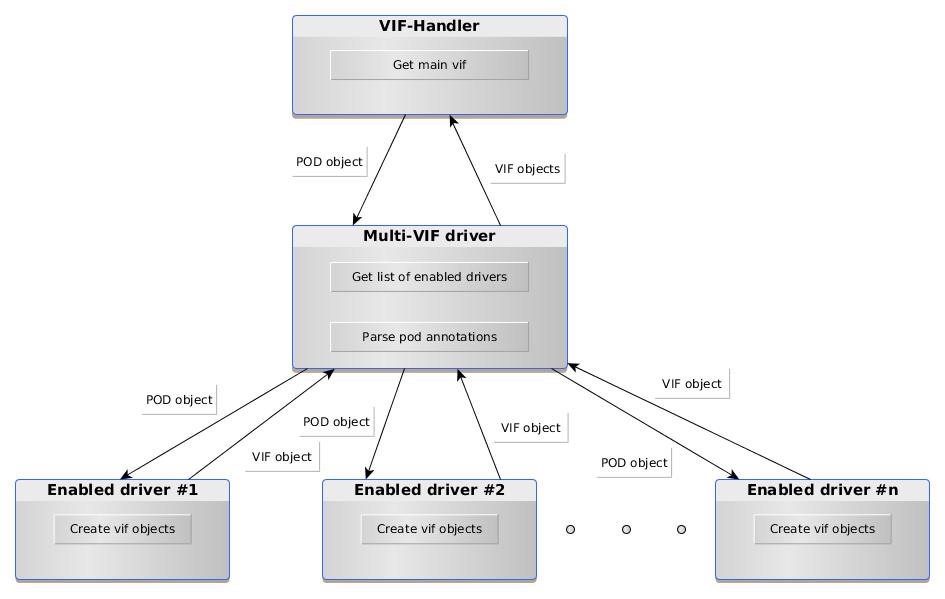
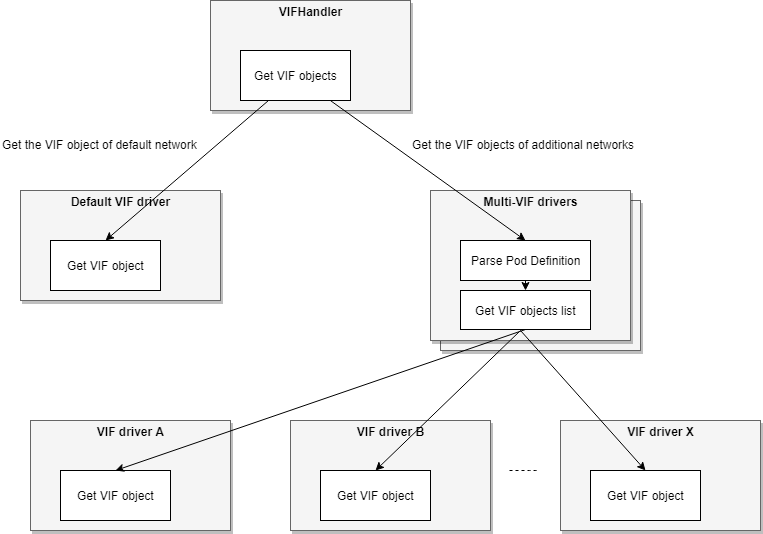
Implement multi-vif driver
This patch implements the multi-vif of VIF-Handler And Vif
Drivers Design.

This patch creates a new driver type MultiVIFDriver. It will
be the base class of real drivers like sriov,
additional_subnet and npwg_multiple_interfaces. Each of the
derived driver should implement the parsing of the additional
interfaces definition in K8S pods, and call VIF driver to
either create or acquire the Neutron port and its VIF object.

A list of enabled drivers can be returned by its class method.
So that the VIFHandler can invoke each driver one by one to
get the whole list of interfaces for one pod.

Partially Implements: blueprint multi-vif-pods

diff --git a/kuryr_kubernetes/tests/unit/controller/handlers/test_vif.py b/kuryr_kubernetes/tests/unit/controller/handlers/test_vif.py
@@ -34,6 +34,8 @@ class TestVIFHandler(test_base.TestCase):
         self._vif.active = True
         self._vif_serialized = mock.sentinel.vif_serialized
         self._vifs = {k_const.DEFAULT_IFNAME: self._vif}
+        self._multi_vif_drv = mock.MagicMock(spec=drivers.MultiVIFDriver)
+        self._additioan_vifs = []
 
         self._pod_version = mock.sentinel.pod_version
         self._pod_link = mock.sentinel.pod_link
@@ -52,6 +54,7 @@ class TestVIFHandler(test_base.TestCase):
         self._handler._drv_vif = mock.Mock(spec=drivers.PodVIFDriver)
         self._handler._drv_vif_pool = mock.MagicMock(
             spec=drivers.VIFPoolDriver)
+        self._handler._drv_multi_vif = [self._multi_vif_drv]
 
         self._get_project = self._handler._drv_project.get_project
         self._get_subnets = self._handler._drv_subnets.get_subnets
@@ -64,8 +67,11 @@ class TestVIFHandler(test_base.TestCase):
         self._set_vifs = self._handler._set_vifs
         self._is_host_network = self._handler._is_host_network
         self._is_pending_node = self._handler._is_pending_node
+        self._request_additional_vifs = \
+            self._multi_vif_drv.request_additional_vifs
 
         self._request_vif.return_value = self._vif
+        self._request_additional_vifs.return_value = self._additioan_vifs
         self._get_vifs.return_value = self._vifs
         self._is_host_network.return_value = False
         self._is_pending_node.return_value = True
@@ -78,6 +84,7 @@ class TestVIFHandler(test_base.TestCase):
         self._handler._drv_for_vif = h_vif.VIFHandler._drv_for_vif.__get__(
             self._handler)
 
+    @mock.patch.object(drivers.MultiVIFDriver, 'get_enabled_drivers')
     @mock.patch.object(drivers.VIFPoolDriver, 'set_vif_driver')
     @mock.patch.object(drivers.VIFPoolDriver, 'get_instance')
     @mock.patch.object(drivers.PodVIFDriver, 'get_instance')
@@ -86,17 +93,19 @@ class TestVIFHandler(test_base.TestCase):
     @mock.patch.object(drivers.PodProjectDriver, 'get_instance')
     def test_init(self, m_get_project_driver, m_get_subnets_driver,
                   m_get_sg_driver, m_get_vif_driver, m_get_vif_pool_driver,
-                  m_set_vifs_driver):
+                  m_set_vifs_driver, m_get_multi_vif_drivers):
         project_driver = mock.sentinel.project_driver
         subnets_driver = mock.sentinel.subnets_driver
         sg_driver = mock.sentinel.sg_driver
         vif_driver = mock.sentinel.vif_driver
         vif_pool_driver = mock.Mock(spec=drivers.VIFPoolDriver)
+        multi_vif_drivers = [mock.MagicMock(spec=drivers.MultiVIFDriver)]
         m_get_project_driver.return_value = project_driver
         m_get_subnets_driver.return_value = subnets_driver
         m_get_sg_driver.return_value = sg_driver
         m_get_vif_driver.return_value = vif_driver
         m_get_vif_pool_driver.return_value = vif_pool_driver
+        m_get_multi_vif_drivers.return_value = multi_vif_drivers
 
         handler = h_vif.VIFHandler()
 
@@ -104,6 +113,7 @@ class TestVIFHandler(test_base.TestCase):
         self.assertEqual(subnets_driver, handler._drv_subnets)
         self.assertEqual(sg_driver, handler._drv_sg)
         self.assertEqual(vif_pool_driver, handler._drv_vif_pool)
+        self.assertEqual(multi_vif_drivers, handler._drv_multi_vif)
 
     def test_is_host_network(self):
         self._pod['spec']['hostNetwork'] = True
@@ -137,6 +147,7 @@ class TestVIFHandler(test_base.TestCase):
 
         self._get_vifs.assert_called_once_with(self._pod)
         self._request_vif.assert_not_called()
+        self._request_additional_vifs.assert_not_called()
         self._activate_vif.assert_not_called()
         self._set_vifs.assert_not_called()
 
@@ -147,6 +158,7 @@ class TestVIFHandler(test_base.TestCase):
 
         self._get_vifs.assert_not_called()
         self._request_vif.assert_not_called()
+        self._request_additional_vifs.assert_not_called()
         self._activate_vif.assert_not_called()
         self._set_vifs.assert_not_called()
 
@@ -157,6 +169,7 @@ class TestVIFHandler(test_base.TestCase):
 
         self._get_vifs.assert_not_called()
         self._request_vif.assert_not_called()
+        self._request_additional_vifs.assert_not_called()
         self._activate_vif.assert_not_called()
         self._set_vifs.assert_not_called()
 
@@ -169,6 +182,7 @@ class TestVIFHandler(test_base.TestCase):
         self._activate_vif.assert_called_once_with(self._pod, self._vif)
         self._set_vifs.assert_called_once_with(self._pod, self._vifs)
         self._request_vif.assert_not_called()
+        self._request_additional_vifs.assert_not_called()
 
     def test_on_present_create(self):
         self._get_vifs.return_value = {}
@@ -178,7 +192,26 @@ class TestVIFHandler(test_base.TestCase):
         self._get_vifs.assert_called_once_with(self._pod)
         self._request_vif.assert_called_once_with(
             self._pod, self._project_id, self._subnets, self._security_groups)
+        self._request_additional_vifs.assert_called_once_with(
+            self._pod, self._project_id, self._security_groups)
         self._set_vifs.assert_called_once_with(self._pod, self._vifs)
+        self._activate_vif.assert_not_called()
+
+    def test_on_present_create_with_additional_vifs(self):
+        self._get_vifs.return_value = {}
+        self._request_additional_vifs.return_value = [mock.Mock()]
+        vifs = self._vifs.copy()
+        vifs.update({k_const.ADDITIONAL_IFNAME_PREFIX+'1':
+                    self._request_additional_vifs.return_value[0]})
+
+        h_vif.VIFHandler.on_present(self._handler, self._pod)
+
+        self._get_vifs.assert_called_once_with(self._pod)
+        self._request_vif.assert_called_once_with(
+            self._pod, self._project_id, self._subnets, self._security_groups)
+        self._request_additional_vifs.assert_called_once_with(
+            self._pod, self._project_id, self._security_groups)
+        self._set_vifs.assert_called_once_with(self._pod, vifs)
         self._activate_vif.assert_not_called()
 
     def test_on_present_rollback(self):
@@ -190,6 +223,8 @@ class TestVIFHandler(test_base.TestCase):
         self._get_vifs.assert_called_once_with(self._pod)
         self._request_vif.assert_called_once_with(
             self._pod, self._project_id, self._subnets, self._security_groups)
+        self._request_additional_vifs.assert_called_once_with(
+            self._pod, self._project_id, self._security_groups)
         self._set_vifs.assert_called_once_with(self._pod, self._vifs)
         self._release_vif.assert_called_once_with(self._pod, self._vif,
                                                   self._project_id,
@@ -203,6 +238,22 @@ class TestVIFHandler(test_base.TestCase):
         self._release_vif.assert_called_once_with(self._pod, self._vif,
                                                   self._project_id,
                                                   self._security_groups)
+
+    def test_on_deleted_with_additional_vifs(self):
+        self._additioan_vifs = [mock.Mock()]
+        self._get_vifs.return_value = self._vifs.copy()
+        self._get_vifs.return_value.update(
+            {k_const.ADDITIONAL_IFNAME_PREFIX+'1': self._additioan_vifs[0]})
+
+        h_vif.VIFHandler.on_deleted(self._handler, self._pod)
+
+        self._get_vifs.assert_called_once_with(self._pod)
+        self._release_vif.assert_any_call(self._pod, self._vif,
+                                          self._project_id,
+                                          self._security_groups)
+        self._release_vif.assert_any_call(self._pod, self._additioan_vifs[0],
+                                          self._project_id,
+                                          self._security_groups)
 
     def test_on_deleted_host_network(self):
         self._is_host_network.return_value = True

diff --git a/kuryr_kubernetes/controller/drivers/base.py b/kuryr_kubernetes/controller/drivers/base.py
@@ -23,6 +23,7 @@ from kuryr_kubernetes import config
 
 _DRIVER_NAMESPACE_BASE = 'kuryr_kubernetes.controller.drivers'
 _DRIVER_MANAGERS = {}
+_MULTI_VIF_DRIVERS = []
 
 
 class DriverBase(object):
@@ -347,6 +348,42 @@ class PodVIFDriver(DriverBase):
 
 
 @six.add_metaclass(abc.ABCMeta)
+class MultiVIFDriver(DriverBase):
+    """Manages additional ports of Kubernetes Pods."""
+
+    ALIAS = 'multi_vif'
+
+    @abc.abstractmethod
+    def request_additional_vifs(
+            self, pod, project_id, security_groups):
+        """Links Neutron ports to pod and returns them as a list of VIF objects.
+
+        Implementing drivers must be able to parse the additional interface
+        definition from pod. The format of the definition is up to the
+        implementation of each driver. Then implementing drivers must invoke
+        the VIF drivers to either create new Neutron ports on each request or
+        reuse available ports when possible.
+
+        :param pod: dict containing Kubernetes Pod object
+        :param project_id: OpenStack project ID
+        :param security_groups: list containing security groups' IDs as
+                                returned by
+                                `PodSecurityGroupsDriver.get_security_groups`
+        :return: VIF object list
+        """
+        raise NotImplementedError()
+
+    @classmethod
+    def get_enabled_drivers(cls):
+        if _MULTI_VIF_DRIVERS:
+            pass
+        else:
+            drivers = config.CONF.kubernetes['multi_vif_drivers']
+            for driver in drivers:
+                _MULTI_VIF_DRIVERS.append(cls.get_instance(driver))
+        return _MULTI_VIF_DRIVERS
+
+
 class LBaaSDriver(DriverBase):
     """Base class for Openstack loadbalancer services."""
 

diff --git a/kuryr_kubernetes/controller/handlers/vif.py b/kuryr_kubernetes/controller/handlers/vif.py
@@ -52,6 +52,7 @@ class VIFHandler(k8s_base.ResourceEventHandler):
         self._drv_vif_pool = drivers.VIFPoolDriver.get_instance(
             driver_alias='multi_pool')
         self._drv_vif_pool.set_vif_driver()
+        self._drv_multi_vif = drivers.MultiVIFDriver.get_enabled_drivers()
 
     def on_present(self, pod):
         if self._is_host_network(pod) or not self._is_pending_node(pod):
@@ -69,12 +70,20 @@ class VIFHandler(k8s_base.ResourceEventHandler):
             security_groups = self._drv_sg.get_security_groups(pod, project_id)
             subnets = self._drv_subnets.get_subnets(pod, project_id)
 
-            # NOTE(danil): There is currently no way to actually request
-            # multiple VIFs. However we're packing the main_vif 'eth0' in a
-            # dict here to facilitate future work in this area
+            # Request the default interface of pod
             main_vif = self._drv_vif_pool.request_vif(
                 pod, project_id, subnets, security_groups)
             vifs[constants.DEFAULT_IFNAME] = main_vif
+
+            # Request the additional interfaces from multiple dirvers
+            additional_vifs = []
+            for driver in self._drv_multi_vif:
+                additional_vifs.extend(
+                    driver.request_additional_vifs(
+                        pod, project_id, security_groups))
+            if additional_vifs:
+                for i, vif in enumerate(additional_vifs, start=1):
+                    vifs[constants.ADDITIONAL_IFNAME_PREFIX + str(i)] = vif
 
             try:
                 self._set_vifs(pod, vifs)

diff --git a/kuryr_kubernetes/tests/unit/controller/drivers/test_base.py b/kuryr_kubernetes/tests/unit/controller/drivers/test_base.py
@@ -81,3 +81,34 @@ class TestDriverBase(test_base.TestCase):
         self.assertRaises(TypeError, _TestDriver.get_instance)
         m_cfg.assert_not_called()
         m_stv_mgr.assert_not_called()
+
+
+class TestMultiVIFDriver(test_base.TestCase):
+
+    @mock.patch.object(d_base, '_MULTI_VIF_DRIVERS', [])
+    @mock.patch('kuryr_kubernetes.config.CONF')
+    def test_get_enabled_drivers(self, m_cfg):
+        cfg_name = 'multi_vif_drivers'
+        drv_name = 'driver_impl'
+        m_cfg.kubernetes.__getitem__.return_value = [drv_name]
+        m_drv = mock.MagicMock()
+        d_base.MultiVIFDriver.get_instance = mock.MagicMock(return_value=m_drv)
+
+        self.assertIn(m_drv, d_base.MultiVIFDriver.get_enabled_drivers())
+        m_cfg.kubernetes.__getitem__.assert_called_once_with(cfg_name)
+
+    @mock.patch.object(d_base, '_MULTI_VIF_DRIVERS', [])
+    @mock.patch('kuryr_kubernetes.config.CONF')
+    def test_get_enabled_drivers_multiple(self, m_cfg):
+        cfg_name = 'multi_vif_drivers'
+        drv1_name = 'driver_impl_1'
+        drv2_name = 'driver_impl_2'
+        m_cfg.kubernetes.__getitem__.return_value = [drv1_name, drv2_name]
+        m_drv1 = mock.MagicMock()
+        m_drv2 = mock.MagicMock()
+        d_base.MultiVIFDriver.get_instance = mock.MagicMock()
+        d_base.MultiVIFDriver.get_instance.side_effect = [m_drv1, m_drv2]
+
+        self.assertIn(m_drv1, d_base.MultiVIFDriver.get_enabled_drivers())
+        self.assertIn(m_drv2, d_base.MultiVIFDriver.get_enabled_drivers())
+        m_cfg.kubernetes.__getitem__.assert_called_once_with(cfg_name)

diff --git a/kuryr_kubernetes/controller/drivers/multi_vif.py b/kuryr_kubernetes/controller/drivers/multi_vif.py
@@ -1,0 +1,22 @@
+# Copyright (c) 2018 RedHat, Inc.
+#  All Rights Reserved.
+#    Licensed under the Apache License, Version 2.0 (the "License"); you may
+#    not use this file except in compliance with the License. You may obtain
+#    a copy of the License at
+#
+#         http://www.apache.org/licenses/LICENSE-2.0
+#
+#    Unless required by applicable law or agreed to in writing, software
+#    distributed under the License is distributed on an "AS IS" BASIS, WITHOUT
+#    WARRANTIES OR CONDITIONS OF ANY KIND, either express or implied. See the
+#    License for the specific language governing permissions and limitations
+#    under the License.
+
+from kuryr_kubernetes.controller.drivers import base
+
+
+class NoopMultiVIFDriver(base.MultiVIFDriver):
+
+    def request_additional_vifs(
+            self, pod, project_id, security_groups):
+        return []

diff --git a/kuryr_kubernetes/config.py b/kuryr_kubernetes/config.py
@@ -176,6 +176,10 @@ k8s_opts = [
     cfg.StrOpt('network_policy_driver',
                help=_("Driver for network policies"),
                default='default'),
+    cfg.ListOpt('multi_vif_drivers',
+                help=_("The drivers that provide additional VIFs for"
+                       "Kubernetes Pods."),
+                default='noop'),
 ]
 
 neutron_defaults = [

diff --git a/kuryr_kubernetes/constants.py b/kuryr_kubernetes/constants.py
@@ -56,3 +56,5 @@ VIF_POOL_LIST = '/listPools'
 VIF_POOL_SHOW = '/showPool'
 
 DEFAULT_IFNAME = 'eth0'
+
+ADDITIONAL_IFNAME_PREFIX = 'eth'

diff --git a/doc/source/devref/vif_handler_drivers_design.rst b/doc/source/devref/vif_handler_drivers_design.rst
@@ -25,21 +25,27 @@ Kuryr-Kubernetes Controller.
 VIF-Handler
 -----------
 VIF-handler is intended to handle VIFs. The main aim of VIF-handler is to get
-the pod object, send it to Multi-vif driver and get vif objects from it. After
-that VIF-handler is able to activate, release or update vifs. Also VIF-Handler
-is always authorized to get main vif for pod from generic driver.
+the pod object, send it to 1) the VIF-driver for the default network, 2)
+enabled Multi-VIF drivers for the additional networks, and get VIF objects
+from both. After that VIF-handler is able to activate, release or update VIFs.
 VIF-handler should stay clean whereas parsing of specific pod information
-should be moved to Multi-vif driver.
+should be done by Multi-VIF drivers.
 
-Multi-vif driver
+Multi-VIF driver
 ~~~~~~~~~~~~~~~~
-The main driver that is authorized to call other drivers. The main aim of
-this driver is to get list of enabled drivers, parse pod annotations, pass
-pod object to enabled drivers and get vif objects from them to pass these
-objects to VIF-handler finally. The list of parsed annotations by Multi-vif
-driver includes sriov requests, additional subnets requests and specific ports.
-If the pod object doesn't have annotation which is required by some of the
-drivers then this driver is not called or driver can just return.
+The new type of drivers which is used to call other VIF-drivers to attach
+additional interfaces to Pods. The main aim of this kind of drivers is to get
+additional interfaces from the Pods definition, then invoke real VIF-drivers
+like neutron-vif, nested-macvlan or sriov to retrieve the VIF objects
+accordingly.
+
+All Multi-VIF drivers should be derived from class *MultiVIFDriver*. And all
+should implement the *request_additional_vifs* method which returns a list of
+VIF objects. Those VIF objects are created by each of the vif-drivers invoked
+by the Multi-VIF driver. Each of the multi-vif driver should support a syntax
+of additional interfaces definition in Pod. If the pod object doesn't define
+additional interfaces, the Multi-VIF driver can just return.
+
 Diagram describing VifHandler - Drivers flow is giver below:
 
 .. image:: ../../images/vif_handler_drivers_design.png
@@ -49,19 +55,28 @@ Diagram describing VifHandler - Drivers flow is giver below:
 
 Config Options
 ~~~~~~~~~~~~~~
-Add new config option "enabled_vif_drivers" (list) to config file that shows
-what drivers should be used in Multi-vif driver to collect vif objects. This
-means that Multi-vif driver will pass pod object only to specified drivers
-(generic driver is always used by default and it's not necessary to specify
-it) and get vifs from them.
+Add new config option "multi_vif_drivers" (list) to config file that shows
+what Multi-VIF drivers should be used in to specify the addition VIF objects.
+It is allowed to have one or more multi_vif_drivers enabled, which means that
+multi_vif_drivers can either work separately or together. By default, a noop
+driver which basically does nothing will be used if this field is not
+explicitly specified.
+
 Option in config file might look like this:
 
 .. code-block:: ini
 
     [kubernetes]
 
-    enabled_vif_drivers =  sriov, additional_subnets
+    multi_vif_drivers =  sriov, additional_subnets
 
+Or like this:
+
+.. code-block:: ini
+
+    [kubernetes]
+
+    multi_vif_drivers =  npwg_multiple_interfaces
 
 Additional Subnets Driver
 ~~~~~~~~~~~~~~~~~~~~~~~~~
